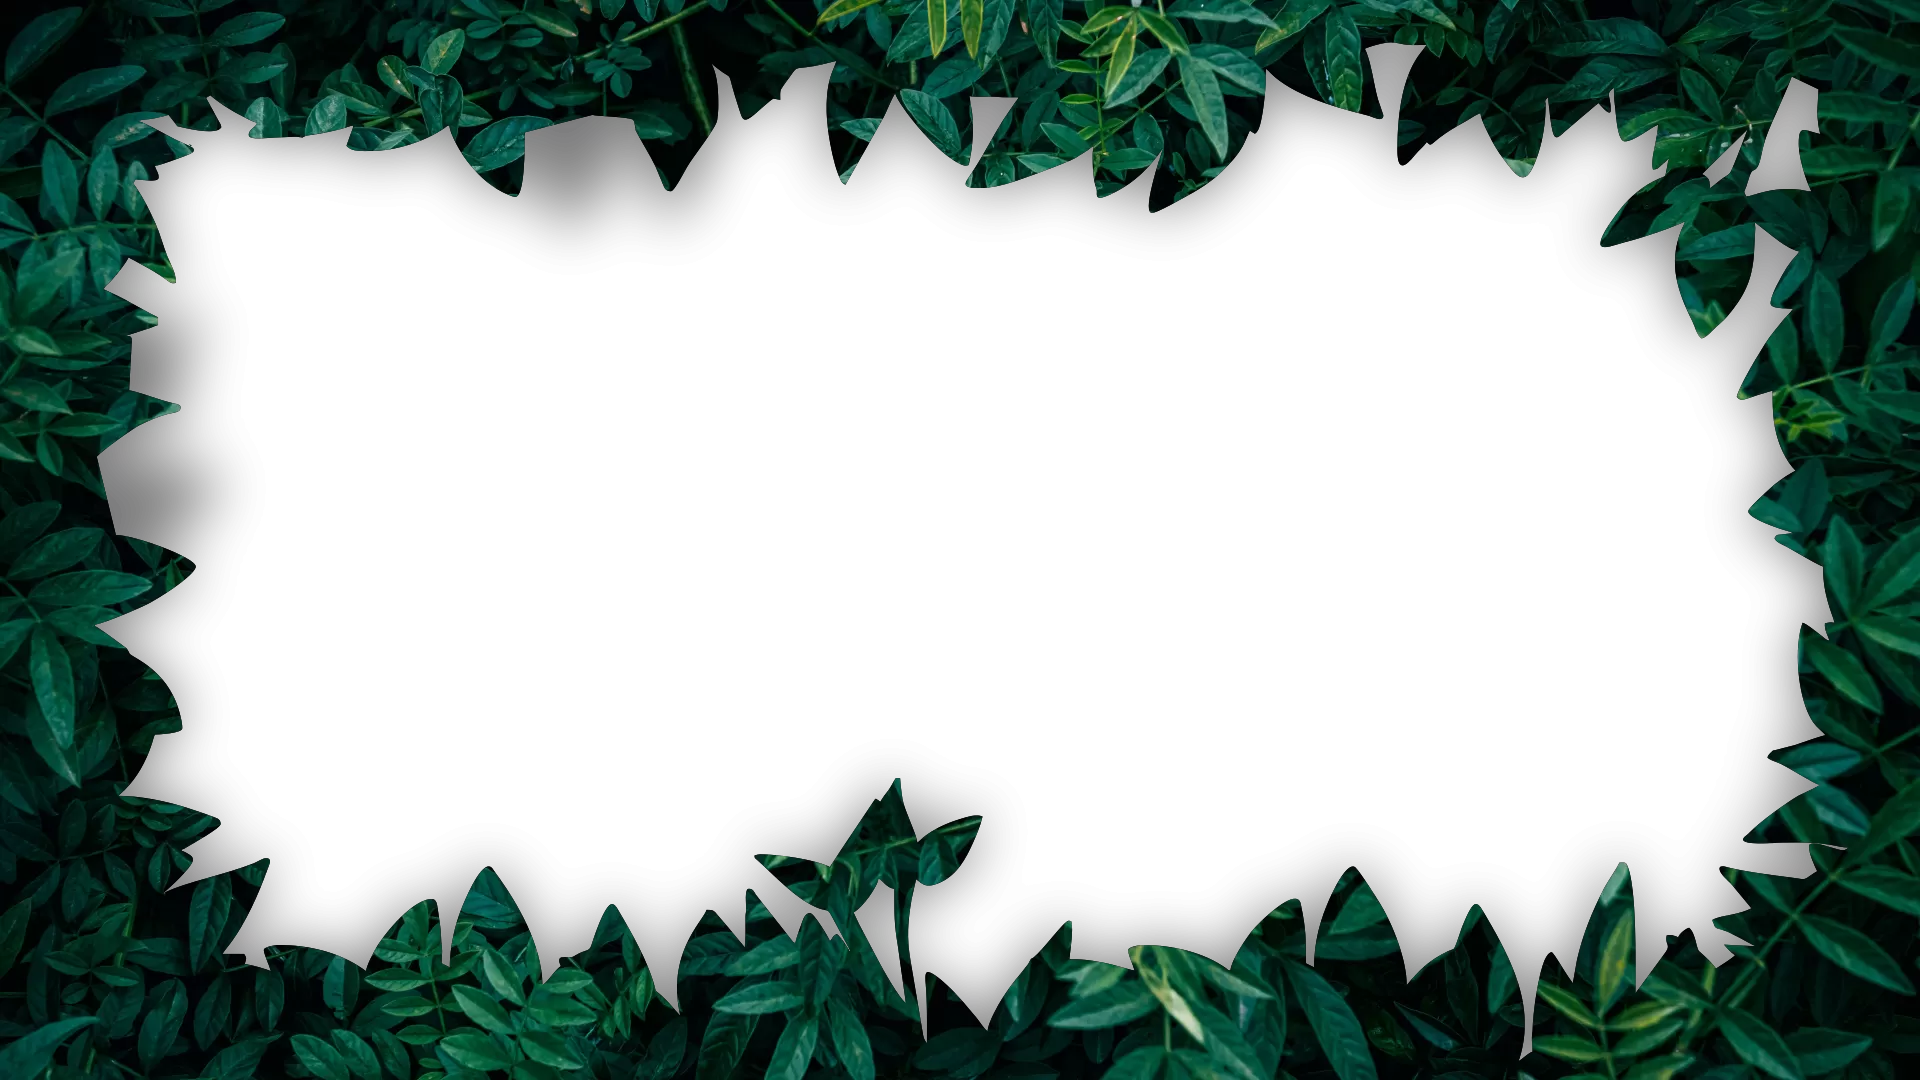
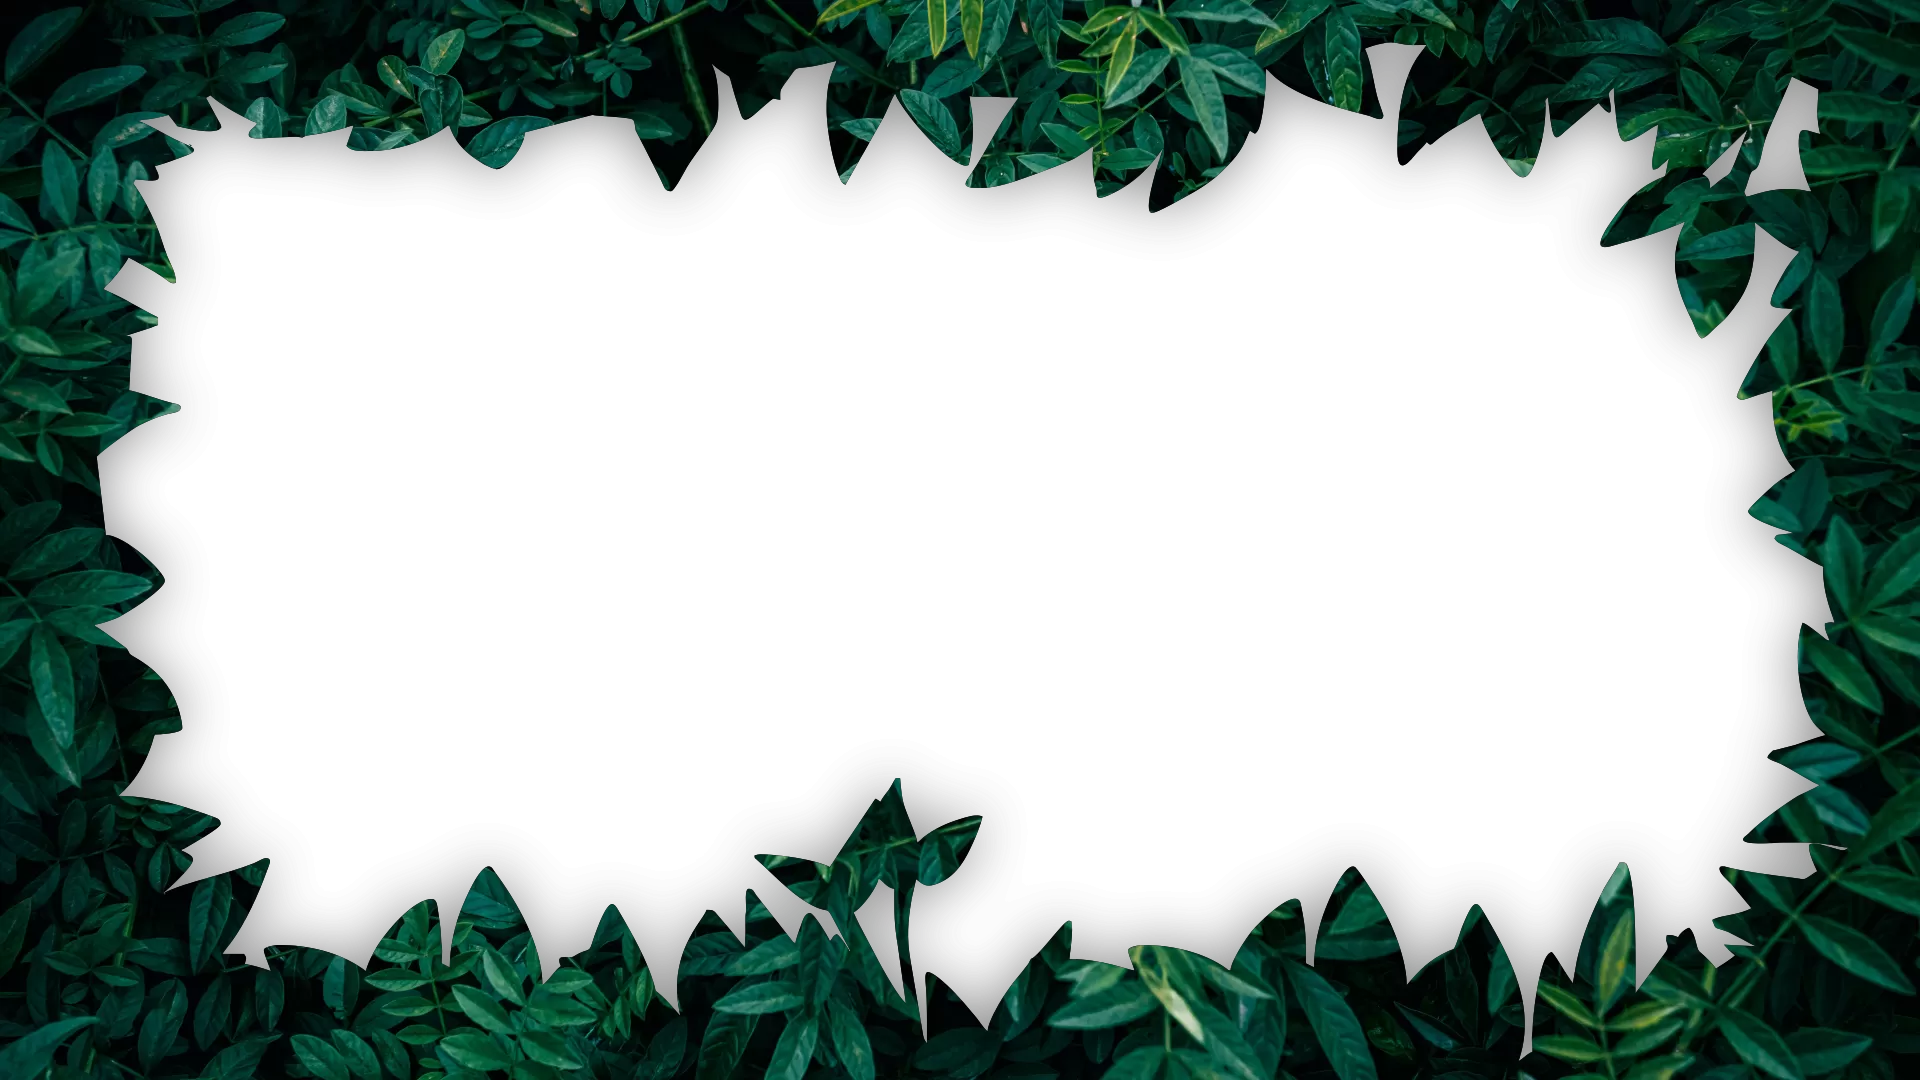
Adjusted frames design to avoid overlapping with texts

Changed region(s): [[0.0312, 0.275, 0.125, 0.55], [0.2188, 0.0917, 0.375, 0.2139]]

diff --git a/scenes-array.js b/scenes-array.js
@@ -262,7 +262,7 @@ const scenes = [
         lightColor: "#FFE6FF",
         immersiveColor: "#10467A",
         textLayout: "center",
-        gradientWH: 56,
+        gradientWH: 62,
         title: "Life is a garden!",
         description: "It's overflowing with abundance. You don't need to own the garden to enjoy its fruit, you just have to notice what's already growing.",
         hasAudio: false,
